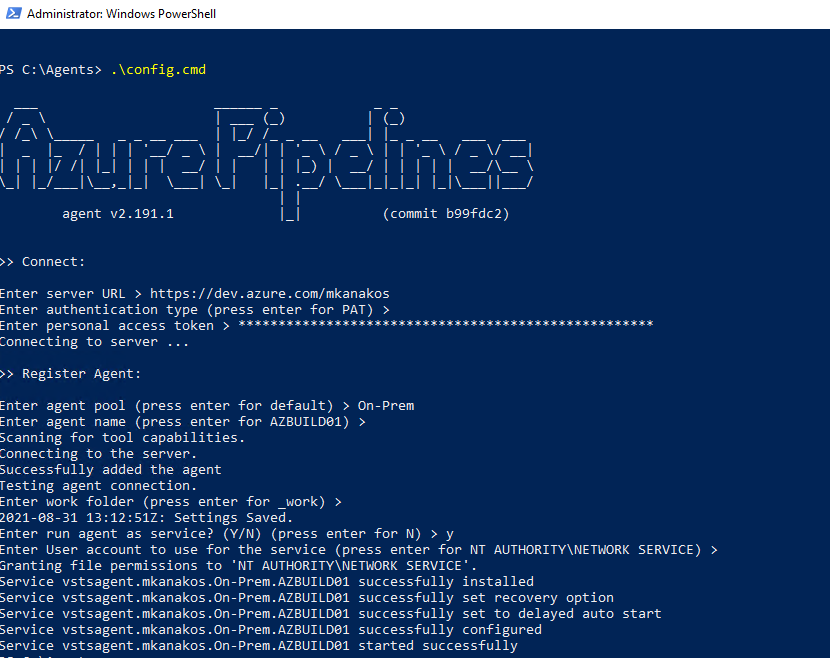
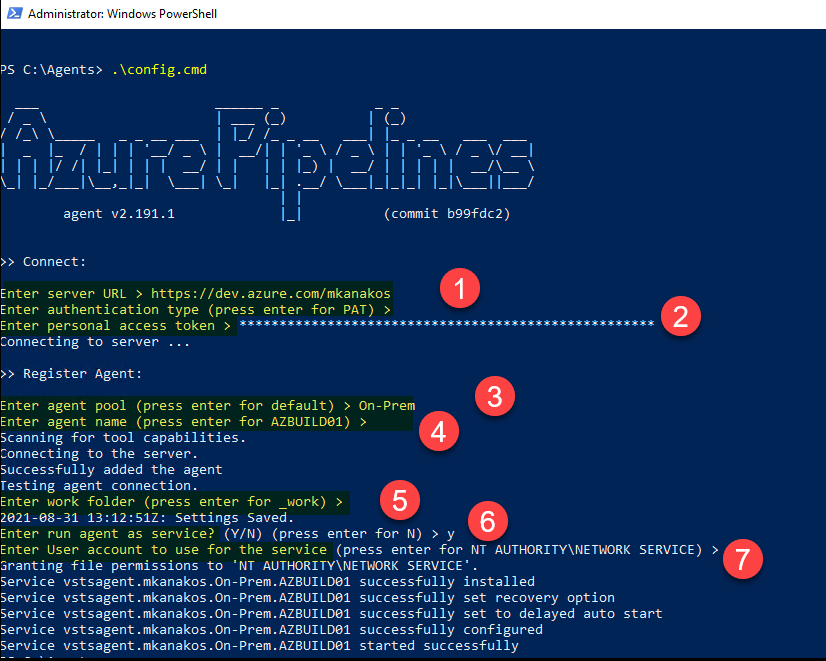
update 7

diff --git a/2021-11 SocalPSUG AzDevOps Demo/Presentation-Notes.md b/2021-11 SocalPSUG AzDevOps Demo/Presentation-Notes.md
@@ -2,65 +2,66 @@
 
 ### Agenda
 
+- AzDevOps: What is it and what does it do?
+- Highlight why you want to consider AzDevOps (Hint: cost, features & flexibility)
 - How to run on-prem workloads from in the Azure cloud.. why?
-- Walk thru services available
-- Highlight why you want to consider ADevOps (Hint: Cost, features & flexibility)
 - Show off the interface / How to get started
 - Explain the buttons and knobs
-- Create some automation
+- Create and run some automation
 
 ### Who Am I?
 
 - Microsoft MVP
-- Infrastructure Tools Engineer: Invisalign
-  - Azure AD, Azure DevOps, Active Directory, SSO, Build PowerShell Tools & Automation
+- Invisalign: Sr Infrastructure Tools Engineer
+  - Azure AD
+  - Active Directory
+  - SSO
+  - PowerShell tools & scripts
+  - Azure DevOps
 - Leader RTPSUG
+- Twitter: @MikeKanakos
+- Web: www.networkadm.in
+- Email mkanakos@gmail.com
 
-### Why AzDevOps?
+### Why AZDevOps?
 
 - What choices do you have today?
   - Windows: task scheduler (scheduled tasks and scheduled jobs)
-  - Linux: Cron Jobs
-  - 3rd party tools (Jenkins, Ansible, PowerShell Universal, etc.)
-- AZ DevOps not thought of as an on-prem solution
-- Can handle all sizes of automation
-- Lots of choices, but can but simplified to the basics
-- Very affordable automation solution for ANY size business
+  - Linux: cron jobs
+  - 3rd party tools (Jenkins, Ansible, PowerShell Universal, Octopus Deploy, etc.)
+- AZDevOps can handle all sizes of automation
+- Very affordable automation solution for ANY size business (Free! Yes, free!)
+- AZ DevOps not thought of as an on-prem solution, but it  manage cloud or on-premises resources
+- SAAS: MS maintains the environment (automation in the cloud)
+- Email and AD Integration built in if you're already in the cloud
 - Engine can handle multiple languages
+- Lots of choices, but can but simplified to the basics
 - GUI or command line based
 
-### What are AZDevOps Svcs?
+### AZDevOps Diagram
+![](AZDevops-Conceptual.png)
 
-- Collection of tools to help build and maintain automation
-- Automation can run in the cloud or on-premises
-- Enterprise grade automation services
-- SAAS - MS maintains the environment
-- Can be a completely free service!!!
-- Azure DevOps website: https://dev.azure.com/your-AZDevops-Acct
+### AZDevops Svcs
 
-### AZDevops Svcs Breakdown:
+Azure DevOps website: https://dev.azure.com/your-AZDevops-Acct
 
-- Five major parts:
 ![AzDevopsSvcs](AZDevops-Services.png)
-
-### AzDevOps vs Task Scheduler?
--
-
-
 
 ## Azure DevOps Cost
 
 - cost calculator - https://azure.microsoft.com/en-us/pricing/calculator/
 - surprisingly cheap - you can absolutely run AzDevOps for $0
 
+
 ## My Lab Setup
 
 - on-prem domain: Active Directory
-- cloud: AzureAD
-- automation engine: AZ DevOps
+- - automation engine: AZ DevOps
   - git repo: my code
   - pipelines: engine
   - Project: where all my settings live
+- ~~cloud: AzureAD~~
+
 
 ## First Steps with Azure DevOps
 
@@ -71,6 +72,7 @@
 - setup a repo
 - commit code
 - setup a job
+- run job
 
 ## AZ DevOps Interface
 
@@ -88,9 +90,7 @@
 - create PAT
 - unzip & install agent
 - follow cmd line prompts
-
-<img src="C:\Scripts\GitRepos\Presentations\2021-09 RTPSUG AZDevOps Demo\AZBuild-Config-Process.png" style="zoom:150%;" />
-
+![](AZBuild-Config-Process.png)
 
 
 ### Repo setup
@@ -106,4 +106,3 @@
 - library
   - variables / variable groups
   - link to jobs
-
